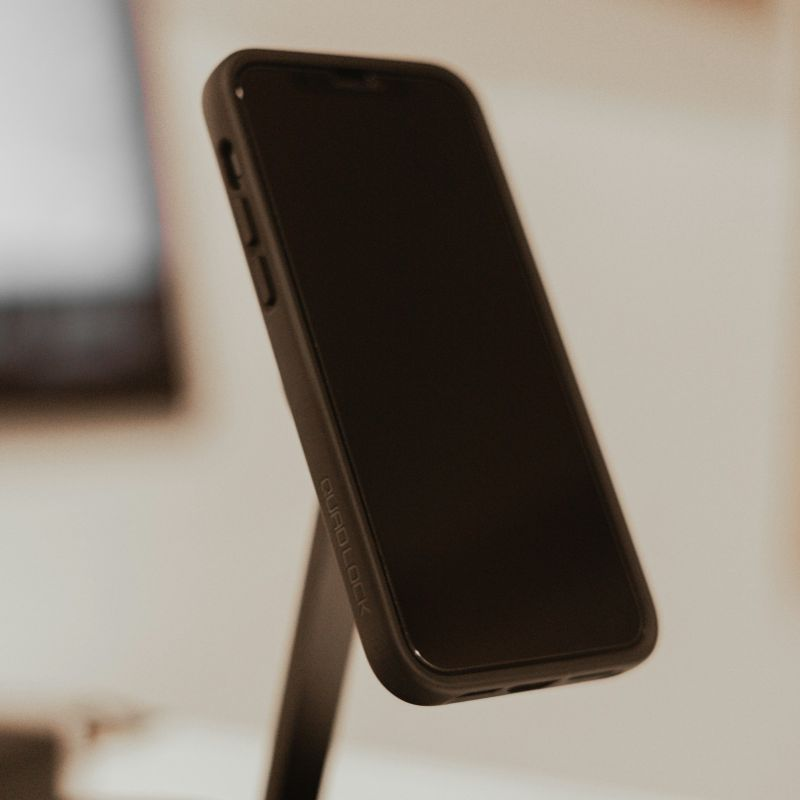
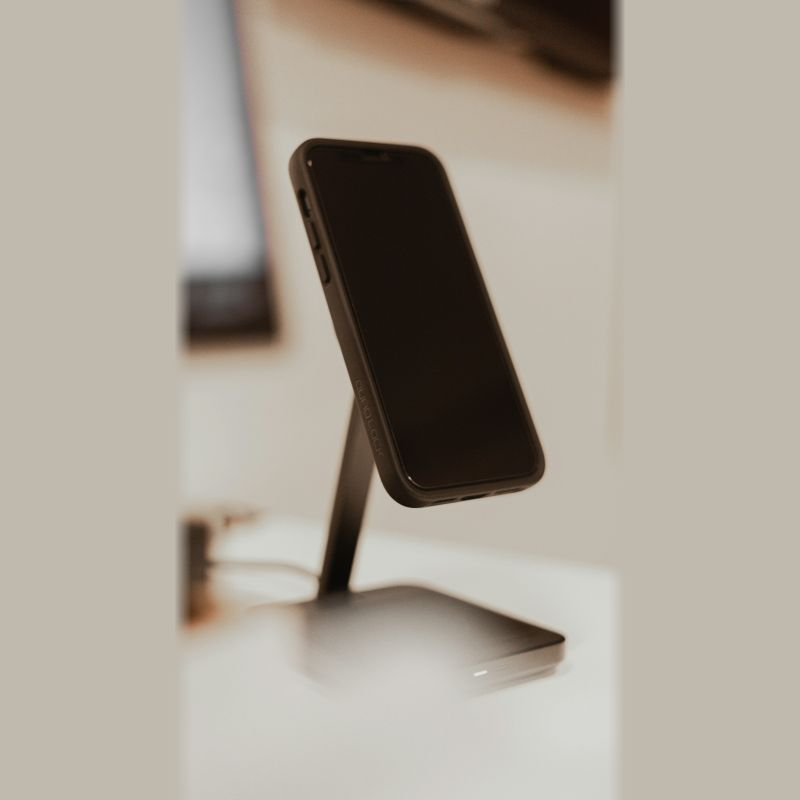
fix: show the whole phone stand in its seed image
Fit the full photo (phone and stand base) into the 800x800 square instead
of cropping it, padding the sides with a plain colour sampled from the
photo's edges. Update the image credits note and the two README
screenshots that show this product.

diff --git a/docs/IMAGE_CREDITS.md b/docs/IMAGE_CREDITS.md
@@ -2,7 +2,7 @@
 
 The demo product photos in `database/seeders/images/` are free stock photos from [Unsplash](https://unsplash.com), used under the [Unsplash License](https://unsplash.com/license). That license allows free use, including commercial use and modification, without requiring attribution. The photographers are credited here anyway.
 
-All photos were chosen to show **no brand logos, trademarks or faces**. Each one was cropped to a square, resized to 800 × 800 px and saved as a JPEG (quality ~80). Two photos were also lightly retouched to remove a small maker's mark; these are marked in the table.
+All photos were chosen to show **no brand logos, trademarks or faces**. Each one was cropped to a square (or, for the phone stand, fitted whole into the square on a plain padded background), resized to 800 × 800 px and saved as a JPEG (quality ~80). Two photos were also lightly retouched to remove a small maker's mark; these are marked in the table.
 
 The seeder copies these files from the repository, so seeding never downloads anything.
 
@@ -22,7 +22,7 @@ The seeder copies these files from the repository, so seeding never downloads an
 | `wireless-earbuds.jpg` | Wireless Earbuds | [Andrey Matveev](https://unsplash.com/@zelebb) | [unsplash.com/photos/VQ1F3zxx6o0](https://unsplash.com/photos/VQ1F3zxx6o0) | Unsplash License | cropped |
 | `usb-c-charging-cable.jpg` | USB-C Charging Cable | [Maxence Pira](https://unsplash.com/@maxence_pira) | [unsplash.com/photos/OJJhibC7cEM](https://unsplash.com/photos/OJJhibC7cEM) | Unsplash License | cropped |
 | `bluetooth-speaker.jpg` | Bluetooth Speaker | [Nicolas J Leclercq](https://unsplash.com/@nicolasjleclercq) | [unsplash.com/photos/gbG65gRAGx4](https://unsplash.com/photos/gbG65gRAGx4) | Unsplash License | cropped |
-| `aluminium-phone-stand.jpg` | Aluminium Phone Stand | [Rohan Krishnan](https://unsplash.com/@rohankrishnann) | [unsplash.com/photos/PxkNzkSZ8LM](https://unsplash.com/photos/PxkNzkSZ8LM) | Unsplash License | cropped |
+| `aluminium-phone-stand.jpg` | Aluminium Phone Stand | [Rohan Krishnan](https://unsplash.com/@rohankrishnann) | [unsplash.com/photos/PxkNzkSZ8LM](https://unsplash.com/photos/PxkNzkSZ8LM) | Unsplash License | not cropped: whole photo fitted into the square, padded with a plain colour sampled from its edges |
 | `scented-soy-candle.jpg` | Scented Soy Candle | [Sixteen Miles Out](https://unsplash.com/@sixteenmilesout) | [unsplash.com/photos/2QSsfflO51I](https://unsplash.com/photos/2QSsfflO51I) | Unsplash License | cropped |
 | `linen-cushion-cover.jpg` | Linen Cushion Cover | [Mitchell Luo](https://unsplash.com/@mitchel3uo) | [unsplash.com/photos/5ffiSFnqfXs](https://unsplash.com/photos/5ffiSFnqfXs) | Unsplash License | cropped |
 | `vintage-desk-lamp.jpg` | Vintage Desk Lamp | [Jez Timms](https://unsplash.com/@jeztimms) | [unsplash.com/photos/8muUTAmcWU4](https://unsplash.com/photos/8muUTAmcWU4) | Unsplash License | cropped |
